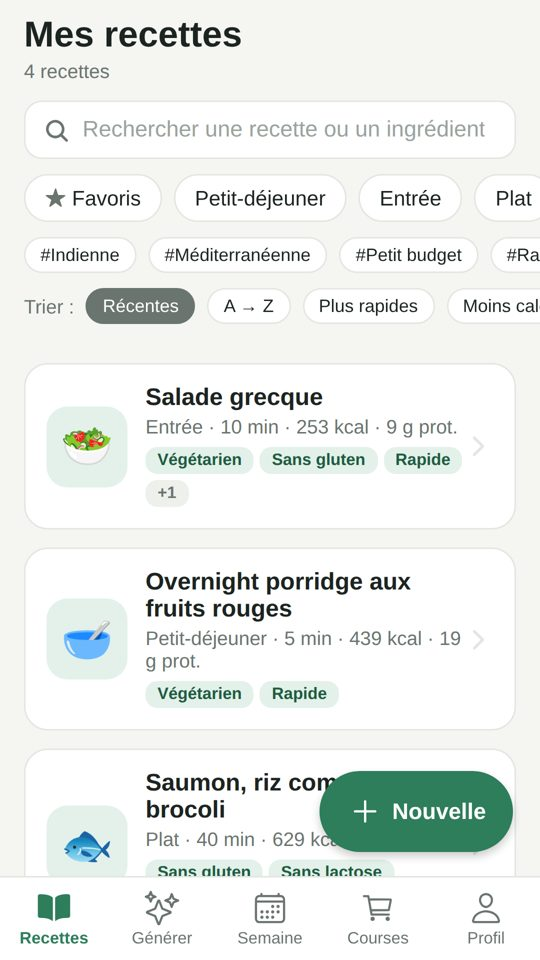
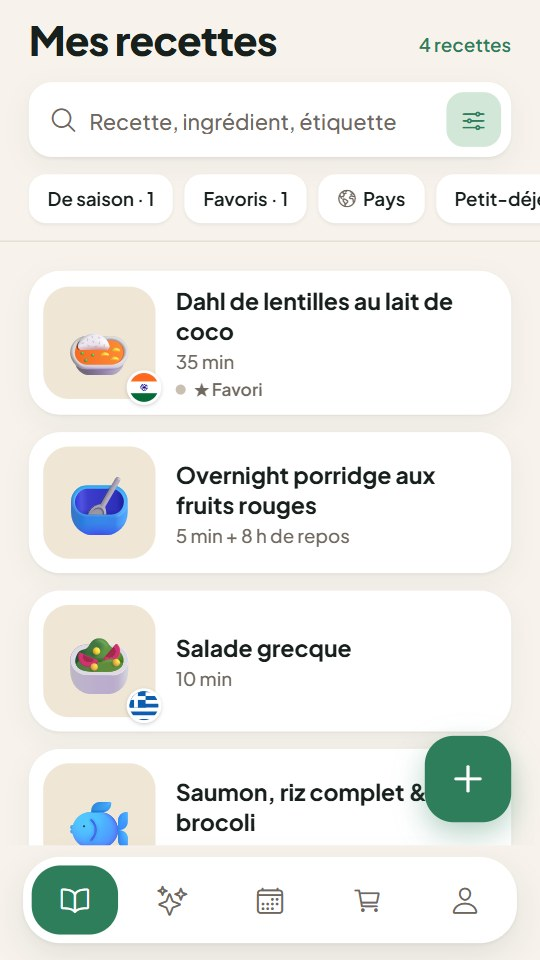
Site à jour : nutrition et budget retirés, vidéos partagées, captures et confidentialité (25 novembre 2026)

diff --git a/confidentialite.html b/confidentialite.html
@@ -18,24 +18,24 @@
 
 <article class="doc">
 <h1>Politique de confidentialité</h1>
-<p class="updated">Dernière mise à jour : 3 octobre 2026</p>
+<p class="updated">Dernière mise à jour : 25 novembre 2026</p>
 <p>L'application <strong>Mes Repas</strong> est éditée par <strong><span class="todo">[Prénom NOM]</span></strong> (contact : <a href="mailto:mes-repas.app@outlook.fr">mes-repas.app@outlook.fr</a>). Cette page explique quelles données sont traitées et pourquoi.</p>
 
 <h2>En résumé</h2>
 <ul>
 <li>Tes recettes, ta semaine et ta liste de courses restent <strong>sur ton téléphone</strong>. Nous n'avons pas de serveur et n'y avons pas accès.</li>
 <li>L'appli affiche des <strong>publicités Google AdMob</strong>, sauf si tu as acheté la version sans pub.</li>
-<li>Si tu utilises la génération par IA, ta demande est envoyée à <strong>Anthropic</strong> avec ta propre clé API.</li>
+<li>Si tu actives les fonctions IA (génération de repas, lecture d'une photo ou d'une vidéo), ta demande est envoyée à <strong>Anthropic</strong> avec ta propre clé API.</li>
 </ul>
 
 <h2>Données enregistrées sur ton appareil</h2>
-<p>Recettes, planning, liste de courses, objectifs nutritionnels et préférences sont stockés localement. Ta clé API Claude est rangée dans le stockage sécurisé du téléphone et n'est jamais transmise à l'éditeur. Tu peux tout effacer (données, photos, clé API, réglages) depuis <em>Profil → Réinitialiser l'application</em> ou en désinstallant l'appli. Elles ne sont copiées sur aucun serveur de l'éditeur, ni dans la sauvegarde Android du compte Google.</p>
-<p>Si tu connectes ton compte Google (<em>Profil → Sauvegarde</em>), une copie de tes recettes (avec leurs photos), de ta semaine et de ta liste de courses est enregistrée à chaque modification dans un dossier « Mes Repas » de <strong>ton propre Google Drive</strong>, pour les retrouver sur tes autres appareils connectés au même compte. L'application ne demande que le droit « drive.file » : elle n'accède qu'aux fichiers qu'elle a créés, jamais au reste de ton Drive. Les échanges se font directement entre ton téléphone et Google (chiffrés) ; l'éditeur ne reçoit ni tes données ni ton adresse e-mail, et n'y a pas accès. Tes objectifs, réglages et ta clé Claude ne sont jamais copiés. Cette copie relève des <a href="https://policies.google.com/privacy">règles de confidentialité de Google</a>. Tu peux te déconnecter à tout moment dans l'application, et retirer l'accès depuis ton compte Google (myaccount.google.com → Sécurité → Applications tierces).</p>
+<p>Recettes, planning, liste de courses et préférences sont stockés localement. Ta clé API Claude est rangée dans le stockage sécurisé du téléphone et n'est jamais transmise à l'éditeur. Tu peux tout effacer (données, photos, clé API, réglages) depuis <em>Profil → Réinitialiser l'application</em> ou en désinstallant l'appli. Elles ne sont copiées sur aucun serveur de l'éditeur, ni dans la sauvegarde Android du compte Google.</p>
+<p>Si tu connectes ton compte Google (<em>Profil → Sauvegarde</em>), une copie de tes recettes (avec leurs photos), de ta semaine et de ta liste de courses est enregistrée à chaque modification dans un dossier « Mes Repas » de <strong>ton propre Google Drive</strong>, pour les retrouver sur tes autres appareils connectés au même compte. L'application ne demande que le droit « drive.file » : elle n'accède qu'aux fichiers qu'elle a créés, jamais au reste de ton Drive. Les échanges se font directement entre ton téléphone et Google (chiffrés) ; l'éditeur ne reçoit ni tes données ni ton adresse e-mail, et n'y a pas accès. Tes réglages et ta clé Claude ne sont jamais copiés. Cette copie relève des <a href="https://policies.google.com/privacy">règles de confidentialité de Google</a>. Tu peux te déconnecter à tout moment dans l'application, et retirer l'accès depuis ton compte Google (myaccount.google.com → Sécurité → Applications tierces).</p>
 
 <h2>Génération par intelligence artificielle (Anthropic)</h2>
-<p>Quand tu lances une génération avec Claude, l'application envoie directement à Anthropic PBC tes préférences (régime, contraintes, objectifs, nombre de repas) et tes instructions libres. Ces échanges sont chiffrés et régis par la <a href="https://www.anthropic.com/legal/privacy">politique de confidentialité d'Anthropic</a>. N'écris pas d'informations personnelles ou de santé sensibles dans les instructions. Cette fonction est facultative : le mode simple fonctionne sans aucun envoi.</p>
+<p>Quand tu lances une génération avec Claude, l'application envoie directement à Anthropic PBC tes préférences (régime, contraintes, nombre de repas) et tes instructions libres. Ces échanges sont chiffrés et régis par la <a href="https://www.anthropic.com/legal/privacy">politique de confidentialité d'Anthropic</a>. N'écris pas d'informations personnelles ou de santé sensibles dans les instructions. Cette fonction est facultative : le mode simple fonctionne sans aucun envoi.</p>
 <p>Si tu ajoutes une recette depuis une photo, l'image (réduite) est envoyée à Anthropic uniquement pour lire la recette, avec ta clé API ; elle n'est pas conservée par l'application.</p>
-<p>Si tu ajoutes une recette depuis une vidéo (TikTok, Instagram…), en la partageant vers Mes Repas ou en collant son lien, l'application demande au site de la vidéo sa description publique (pour TikTok, par son service d'intégration oEmbed), sans compte ni identifiant. Cette description, et le texte que tu as éventuellement collé, sont ensuite envoyés à Anthropic avec ta clé API pour en tirer la recette. Le lien de la vidéo est gardé dans les notes de la recette, sur ton téléphone.</p>
+<p>Si tu ajoutes une recette depuis une vidéo (TikTok, Instagram…), en la partageant vers Mes Repas ou en collant son lien, l'application demande au site de la vidéo sa description publique et son image (pour TikTok, par son service d'intégration oEmbed), sans compte ni identifiant, pour donner un titre et une photo à la recette. Si tu as activé les fonctions IA et enregistré ta clé API, cette description, ou le texte que tu as collé, est ensuite envoyée à Anthropic pour remplir la recette (ingrédients, étapes, étiquettes) : automatiquement quand tu partages une vidéo vers l'appli, ou quand tu touches « Récupérer la recette ». Rien n'est enregistré dans tes recettes tant que tu ne touches pas « Enregistrer ». Le lien de la vidéo est gardé dans les notes de la recette, sur ton téléphone.</p>
 <p>L'accès à l'appareil photo n'est demandé que lorsque tu l'utilises : pour photographier une recette à lire, pour la photo d'un plat (gardée sur ton téléphone) ou pour scanner le QR code d'une recette (rien n'est enregistré ni envoyé).</p>
 
 <h2>Publicité (Google AdMob)</h2>

diff --git a/conditions.html b/conditions.html
@@ -18,16 +18,16 @@
 
 <article class="doc">
 <h1>Conditions d'utilisation</h1>
-<p class="updated">Dernière mise à jour : 3 octobre 2026</p>
+<p class="updated">Dernière mise à jour : 25 novembre 2026</p>
 
 <h2>1. Le service</h2>
-<p>Mes Repas est une application gratuite, financée par la publicité, qui permet de gérer des recettes, de composer des menus, d'estimer leurs apports nutritionnels, de planifier ses repas et d'établir une liste de courses.</p>
+<p>Mes Repas est une application gratuite, financée par la publicité, qui permet de gérer des recettes, de composer des menus, de planifier ses repas et d'établir une liste de courses.</p>
 
-<h2>2. Informations nutritionnelles</h2>
-<p>Les valeurs nutritionnelles sont des <strong>estimations</strong> calculées à partir de la table Ciqual de l'ANSES et de valeurs moyennes. Elles sont données à titre indicatif et <strong>ne remplacent pas l'avis d'un médecin ou d'un diététicien</strong>. En cas d'allergie, de maladie, de grossesse ou de régime médical, vérifie toujours les ingrédients et demande conseil à un professionnel de santé.</p>
+<h2>2. Recettes et allergies</h2>
+<p>Les recettes et les temps sont donnés <strong>à titre indicatif</strong>. En cas d'allergie, de maladie, de grossesse ou de régime médical, vérifie toujours les ingrédients et demande conseil à un professionnel de santé.</p>
 
 <h2>3. Contenus générés par l'intelligence artificielle</h2>
-<p>La génération « Claude (IA) » utilise le service d'Anthropic avec la <strong>clé API personnelle</strong> de l'utilisateur. Son utilisation est facturée par Anthropic, directement à l'utilisateur, selon ses propres conditions. Les recettes générées peuvent contenir des erreurs : vérifie les allergènes, les quantités et les temps de cuisson avant de cuisiner. Tout contenu inapproprié peut être signalé depuis l'appli (drapeau « Signaler »).</p>
+<p>Les fonctions « Claude (IA) » (génération, lecture d'une photo ou d'une vidéo) utilisent le service d'Anthropic avec la <strong>clé API personnelle</strong> de l'utilisateur. Leur utilisation est facturée par Anthropic, directement à l'utilisateur, selon ses propres conditions. Les recettes générées peuvent contenir des erreurs : vérifie les allergènes, les quantités et les temps de cuisson avant de cuisiner. Tout contenu inapproprié peut être signalé depuis l'appli (drapeau « Signaler »).</p>
 
 <h2>4. Achat « Sans pub »</h2>
 <ul>
@@ -45,7 +45,7 @@
 <p>L'application est fournie « en l'état ». L'éditeur s'efforce d'en assurer le bon fonctionnement mais ne peut garantir l'absence d'erreurs ni la disponibilité des services tiers (Google, Anthropic). Tes données étant stockées sur ton appareil, elles sont perdues si tu désinstalles l'appli ou si tu perds ton téléphone, sauf si tu as connecté ton Google Drive (<em>Profil → Sauvegarde</em>).</p>
 
 <h2>6. Contact et droit applicable</h2>
-<p>Pour toute question : <a href="mailto:mes-repas.app@outlook.fr">mes-repas.app@outlook.fr</a>. Ces conditions sont soumises au droit français. En cas de litige, tu peux recourir gratuitement à un médiateur de la consommation ou à la plateforme européenne de règlement en ligne des litiges.</p>
+<p>Pour toute question : <a href="mailto:mes-repas.app@outlook.fr">mes-repas.app@outlook.fr</a>. Ces conditions sont soumises au droit français. En cas de litige, tu peux recourir gratuitement à un médiateur de la consommation.</p>
 </article>
 
 </main>

diff --git a/index.html b/index.html
@@ -4,7 +4,7 @@
 <meta charset="utf-8">
 <meta name="viewport" content="width=device-width, initial-scale=1">
 <title>Mes Repas</title>
-<meta name="description" content="Application Android : recettes, menus équilibrés, bilan nutritionnel, planning et liste de courses.">
+<meta name="description" content="Application Android : recettes, vidéos de cuisine, menus, planning et liste de courses.">
 <link rel="icon" href="img/favicon.png">
 <link rel="preconnect" href="https://fonts.googleapis.com"><link rel="stylesheet" href="https://fonts.googleapis.com/css2?family=Bricolage+Grotesque:opsz,wght@12..96,700;12..96,800&family=Instrument+Sans:wght@400;600;700&display=swap">
 <link rel="stylesheet" href="style.css">
@@ -18,20 +18,19 @@
 
 <section class="hero">
   <div>
-    <h1>Tes recettes, des menus équilibrés et ta liste de courses.</h1>
-    <p class="lead">Mes Repas regroupe tes recettes, compose des menus adaptés à ton régime et t'indique ce qu'il manque dans tes apports nutritionnels, avec une solution.</p>
+    <h1>Tes recettes, tes vidéos de cuisine et ta liste de courses.</h1>
+    <p class="lead">Mes Repas regroupe tes recettes et les vidéos TikTok ou Instagram que tu repères, compose des menus adaptés à ton régime et remplit ta liste de courses.</p>
     <p><span class="badge">Bientôt sur Google Play</span></p>
   </div>
   <div class="shots">
     <img src="img/capture-recettes.jpg" alt="Liste des recettes">
-    <img src="img/capture-bilan.jpg" alt="Bilan nutritionnel">
     <img src="img/capture-semaine.jpg" alt="Planning de la semaine">
   </div>
 </section>
 <section class="features">
-  <div class="feature"><h3>Recettes modifiables</h3><p>Ingrédients, étapes, temps, portions, étiquettes : tout se modifie. Les valeurs nutritionnelles sont calculées avec la table Ciqual de l'ANSES.</p></div>
-  <div class="feature"><h3>Menus sur mesure</h3><p>Régime, allergies, budget, cuisines du monde : l'appli compose tes repas, en mode simple hors ligne ou avec Claude (IA).</p></div>
-  <div class="feature"><h3>Bilan nutritionnel</h3><p>Calories, protéines, fibres, fer, calcium, vitamine C… Ce qui manque, et comment le compléter.</p></div>
+  <div class="feature"><h3>Recettes modifiables</h3><p>Ingrédients, étapes, temps, portions, étiquettes : tout se modifie, et tout se retrouve par les filtres.</p></div>
+  <div class="feature"><h3>Menus sur mesure</h3><p>Régime, allergies, cuisines du monde : l'appli compose tes repas, en mode simple hors ligne ou avec Claude (IA).</p></div>
+  <div class="feature"><h3>Vidéos en un partage</h3><p>Une vidéo TikTok ou Instagram te plaît ? Partage-la vers Mes Repas : une nouvelle recette s'ouvre avec son lien, prête à être enregistrée.</p></div>
   <div class="feature"><h3>Semaine et courses</h3><p>Planifie tes repas par jour, coche-les une fois cuisinés : la liste de courses se remplit toute seule.</p></div>
 </section>
 <p class="note">La génération par intelligence artificielle utilise la clé API Claude personnelle de l'utilisateur (compte Anthropic). Un mode simple, gratuit et hors ligne, est toujours disponible.</p>

diff --git a/mentions-legales.html b/mentions-legales.html
@@ -24,8 +24,8 @@
 <p>GitHub, Inc. — 88 Colin P. Kelly Jr. Street, San Francisco, CA 94107, États-Unis — <a href="https://github.com">github.com</a></p>
 <h2>Distribution de l'application</h2>
 <p>Google Play, Google Ireland Limited, Gordon House, Barrow Street, Dublin 4, Irlande.</p>
-<h2>Données nutritionnelles</h2>
-<p>Anses. 2025. Table de composition nutritionnelle des aliments Ciqual. Données réutilisées sous <a href="https://www.etalab.gouv.fr/licence-ouverte-open-licence/">Licence Ouverte / Open Licence</a>.</p>
+<h2>Liste des aliments</h2>
+<p>Anses. 2025. Table de composition nutritionnelle des aliments Ciqual (noms des aliments). Données réutilisées sous <a href="https://www.etalab.gouv.fr/licence-ouverte-open-licence/">Licence Ouverte / Open Licence</a>.</p>
 </article>
 
 </main>
